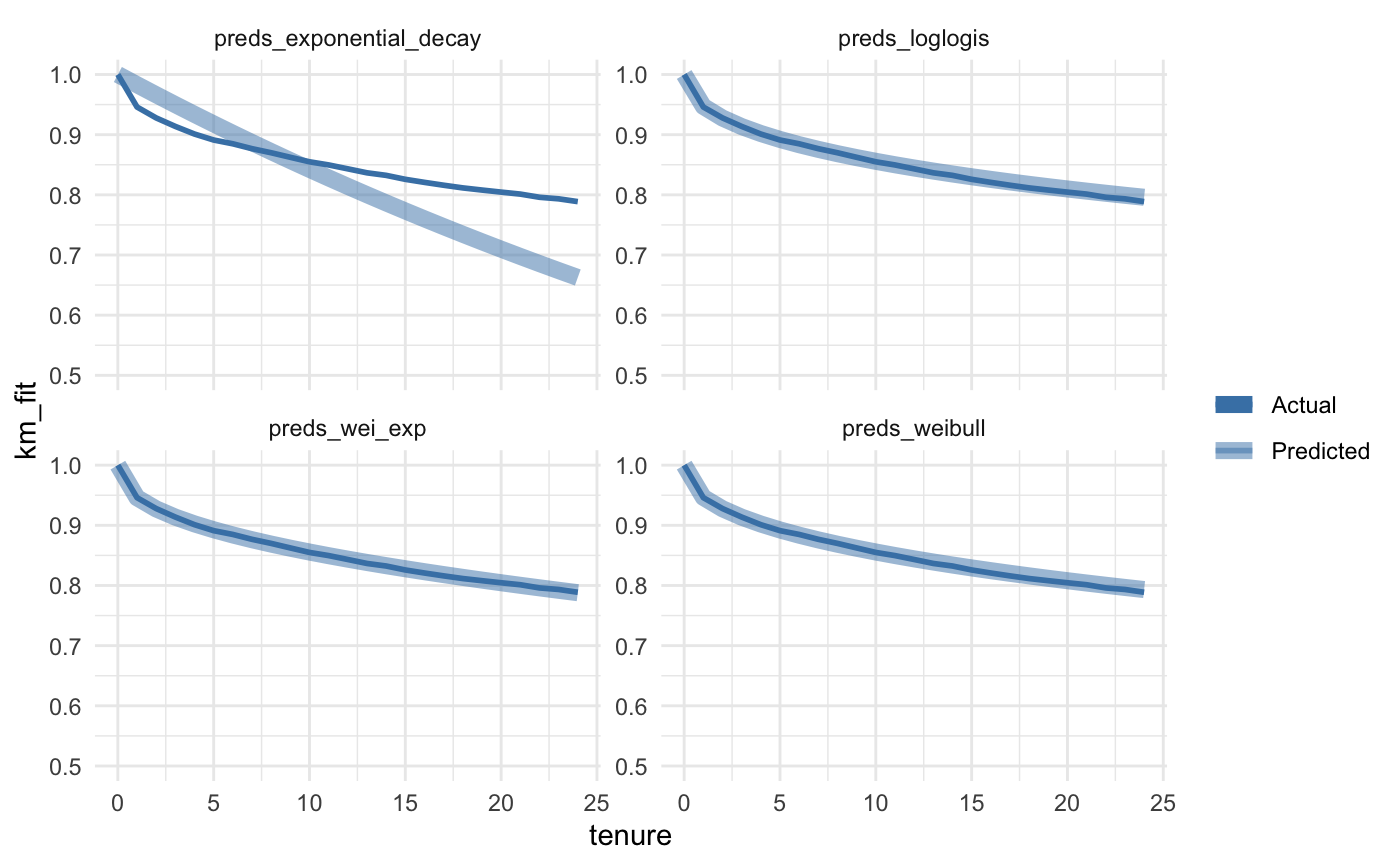
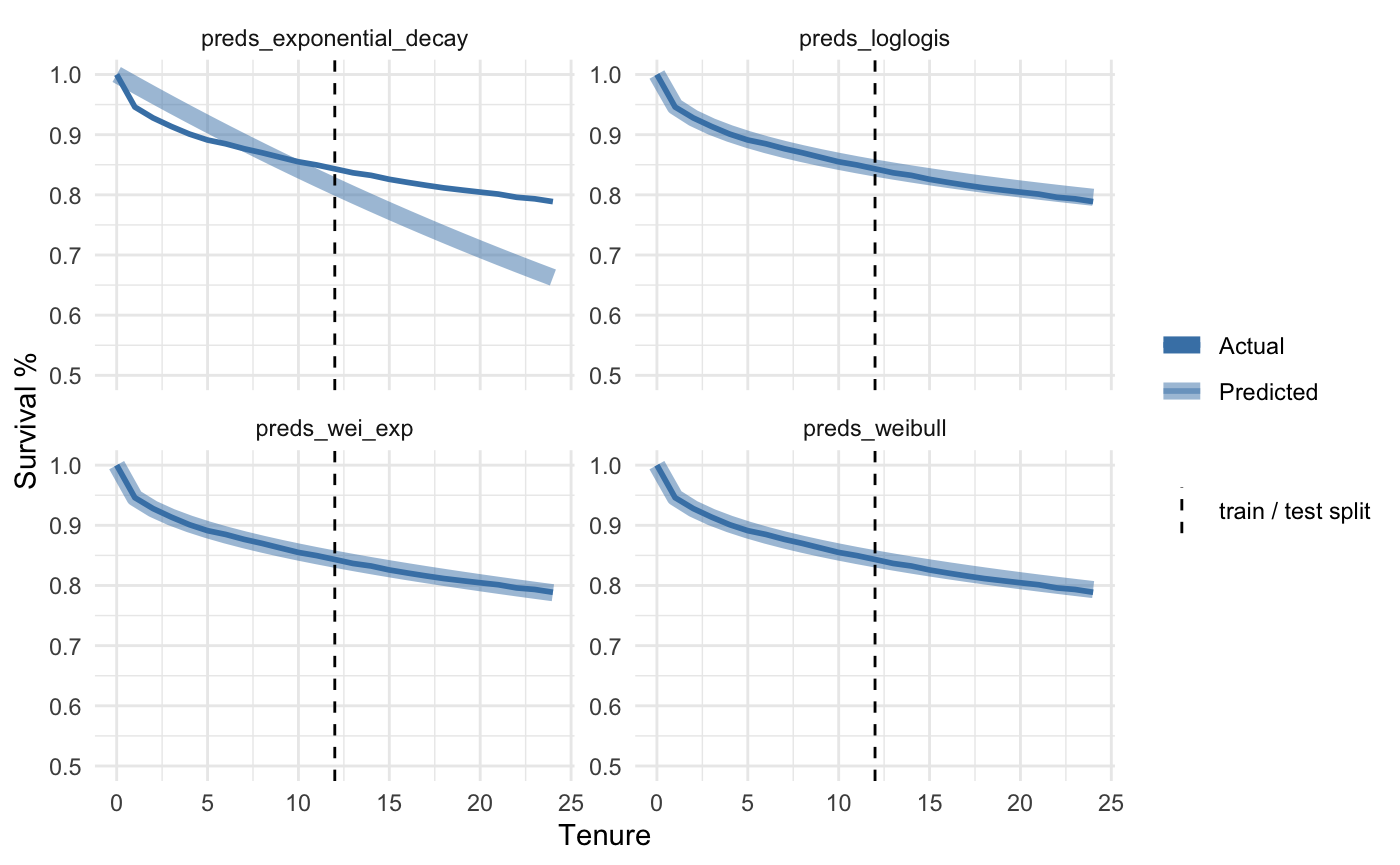
Update plot and some wording

diff --git a/docs/blog/posts/subscriber_lifetime_value_retention.md b/docs/blog/posts/subscriber_lifetime_value_retention.md
@@ -27,7 +27,7 @@ This curve is useful if you'd like to know the % probability that an account is 
 
 Integrating a survival curve gives you the mean or expected lifetime value, in this case of 54 months.
 
-A drawback of this non-parametric method is that the LTV is determined by how much historic data you have. The table below calculates the estimated value, but having restricted the history to each corresponding bin.
+A drawback of this non-parametric method is that the LTV is determined by how much historic data you have. The table below calculates the estimated value, but having restricted the available history to each corresponding bin.
 
 ![Kaplan-Meier Expected Mean Value For Various Tenures](../images/subscriber_lifetime_value_retention/km_estimated_ltv_various_tenures.png)
 
@@ -39,7 +39,7 @@ Kaplan-Meier is often a first look at survival analysis for a business and is ju
 
 Unlike Kaplan-Meier, parametric models can extrapolate to predict survival for future, unseen time periods.
 
-To demonstrate this, I cut the Telco data at 12 months and then used the resulting fit to extrapolate out an additional year to 24 months. 
+To demonstrate this, pretend there's only data for 24 months whereas the goal might be to understand survival by 36 or even 48 months.
 
 Use cases:
 
@@ -51,15 +51,21 @@ Use cases:
 
 [Code used for this analysis is here.](https://github.com/digital-analysis-co/dac-post-notebooks/blob/main/subscriber_lifetime_value_retention.Rmd)
 
+Since there are 24 months total history in this scenario:
+
+* **Train** a model on the first 12 months
+* **Test** the model against actual between 13 and 24 months
+* Refit the chosen best fit model on the full 24 months of available data and then **Predict** out to 36 months
+
 The plots below show actual survival in dark blue, while the lighter blue line is the predicted survival for each parametric model I tried.
 
-The models were only trained on 12 months of data, so everything after 12 months on the light blue curves is extrapolated and can be compared to actual on the dark blue line.
+The models were only trained on 12 months of data, so everything after 12 months on the light blue curves is extrapolated and can be compared to the actual dark blue line.
 
-In this case, just eyeballing the plots, the mixture model combining Weibull and Exponential Decay, fitted actual data out to 24 months a little better than Weibull or LogLogistic by themselves.
+In this case, just eyeballing the plots, the mixture model combining Weibull and Exponential Decay fitted actual data out to 24 months a little better than Weibull or LogLogistic by themselves.
 
 ![Parametric Models & Telco Survival](../images/subscriber_lifetime_value_retention/various_parametric_models_&_telco_churn.png)
 
-Once a best fit model has been identified, we can retrain it on all available data and predict into the future for time periods we don't yet have history for.
+Now that a best fit model has been identified, retrain it on all available 24 months of data, and then predict into the future for time periods we don't yet have history for, such as 36 months.
 
 ## Expected Survival Time (LTV)
 
@@ -69,7 +75,9 @@ Since the parametric curves level off, we need to define a hard cutoff such as 3
 
 If we only had 24 months of history, integrating the Kaplan-Meier curve would give an expected survival time of 20.5 months (See the table of expected survival probabilities above).
 
-Whereas using the parametric model gives a better, fairer result since it can look beyond the initial 24 months.
+Whereas using the parametric model gives a better, fairer result since it can look beyond the initial 24 months. 
+
+36 months gives an expected survival of 29.6 months.
 
 ![Expected Survival using Weibull](../images/subscriber_lifetime_value_retention/Weibull_Expected_Survival.png)
 
